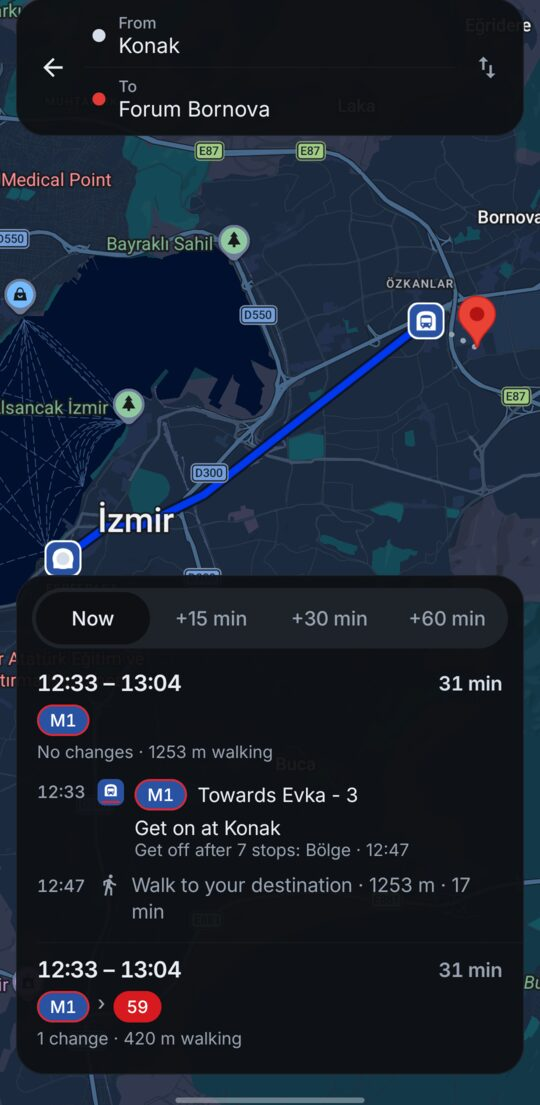
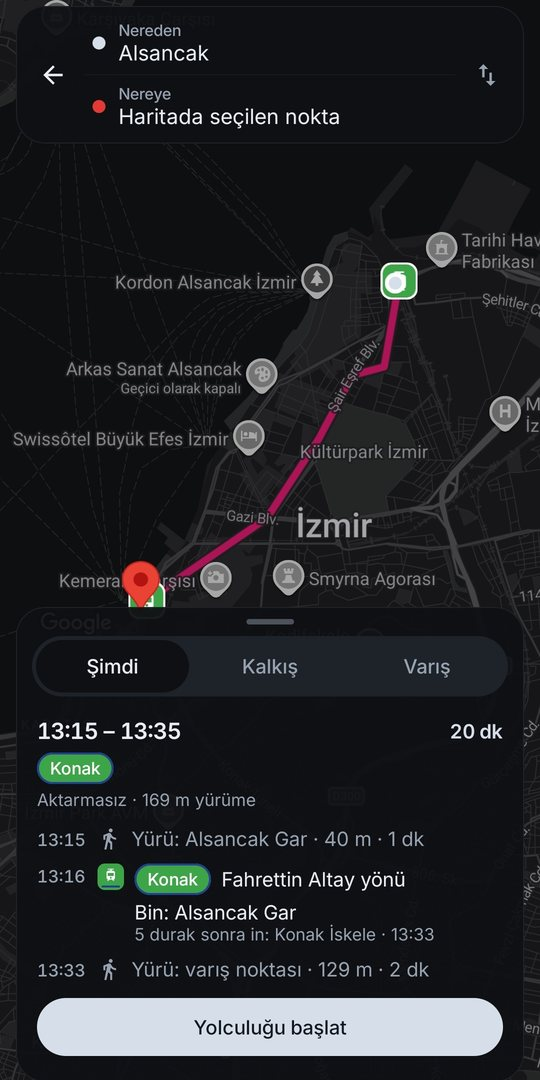
Website: new screenshots and updated features
Replaces the old screenshots with current ones (monochrome map, live
buses, trip planner, timetables, metro), updates the feature texts and
the share image, and adds a Google Play testing section that stays
hidden until the tester group exists.

diff --git a/docs/index.html b/docs/index.html
@@ -7,7 +7,7 @@
 <meta name="description" content="İzmir'in tüm toplu taşıması tek uygulamada: canlı ESHOT otobüsleri, Metro, tramvay, İZBAN ve vapur; sefer saatleri, aktarmalar ve yol tarifi.">
 <meta property="og:title" content="İzmir Transit">
 <meta property="og:description" content="Canlı otobüsler, metro, tramvay, İZBAN ve vapur — tek uygulamada, internet olmadan da.">
-<meta property="og:image" content="https://aijeculate.github.io/izmir-transit/screenshots/map.jpg">
+<meta property="og:image" content="https://aijeculate.github.io/izmir-transit/screenshots/og.jpg">
 <link rel="icon" href="icons/icon-light.svg" type="image/svg+xml" media="(prefers-color-scheme: light)">
 <link rel="icon" href="icons/icon-dark.svg" type="image/svg+xml" media="(prefers-color-scheme: dark)">
 <link rel="icon" href="icons/icon-light-512.png" type="image/png">
@@ -56,6 +56,7 @@
   }
 
   * { box-sizing: border-box; }
+  [hidden] { display: none !important; }
   html { -webkit-text-size-adjust: 100%; }
   body {
     margin: 0;
@@ -117,6 +118,18 @@
   .gallery img { width: 100%; border-radius: 24px; border: 1px solid var(--hairline); box-shadow: var(--shadow); }
   .gallery figcaption { font-size: 14px; color: var(--text-2); margin-top: 10px; text-align: center; }
 
+  .test { display: grid; grid-template-columns: 1.1fr 0.9fr; gap: 28px; align-items: start; background: var(--panel); border: 1px solid var(--hairline); border-radius: 28px; padding: 32px; box-shadow: var(--shadow); backdrop-filter: blur(14px); -webkit-backdrop-filter: blur(14px); }
+  .badge { display: inline-block; font-size: 13px; font-weight: 600; letter-spacing: 0.02em; padding: 5px 12px; border-radius: 999px; background: var(--glow-a); color: var(--accent); margin-bottom: 14px; }
+  .steps { list-style: none; margin: 0; padding: 0; display: grid; gap: 14px; counter-reset: step; }
+  .steps li { display: grid; grid-template-columns: 36px 1fr; gap: 14px; align-items: start; counter-increment: step; }
+  .steps li::before { content: counter(step); display: grid; place-items: center; width: 36px; height: 36px; border-radius: 50%; background: var(--accent); color: var(--on-accent); font-weight: 700; }
+  .steps strong { display: block; margin-bottom: 2px; }
+  .steps p { margin: 0 0 10px; color: var(--text-2); font-size: 15px; }
+  .steps .btn { min-height: 44px; padding: 10px 18px; font-size: 15px; }
+  .ask { margin: 0; padding: 0; list-style: none; display: grid; gap: 10px; }
+  .ask li { padding-left: 26px; position: relative; color: var(--text-2); font-size: 15px; }
+  .ask li::before { content: "✓"; position: absolute; left: 0; color: var(--accent); font-weight: 700; }
+
   table { width: 100%; border-collapse: collapse; font-size: 15px; }
   td { padding: 12px 0; border-top: 1px solid var(--hairline); vertical-align: top; }
   td:first-child { font-weight: 600; width: 34%; padding-right: 16px; }
@@ -132,6 +145,7 @@
     .phones { height: 460px; }
     .phone { width: 200px; }
     .grid { grid-template-columns: 1fr 1fr; }
+    .test { grid-template-columns: 1fr; padding: 24px; }
   }
   @media (max-width: 560px) {
     .grid { grid-template-columns: 1fr; }
@@ -182,8 +196,10 @@
             <svg width="20" height="20" viewBox="0 0 24 24" fill="currentColor" aria-hidden="true"><path d="M5 20h14v-2H5v2zM19 9h-4V3H9v6H5l7 7 7-7z"/></svg>
             <span class="tr">Android için indir</span><span class="en">Download for Android</span>
           </a>
-          <a class="btn ghost" href="https://github.com/aijeculate/izmir-transit">
-            <span class="tr">Kaynak kodu</span><span class="en">Source code</span>
+          <!-- Shown once the tester Google Group exists: remove "hidden" here and on section#test, and set GROUP_URL. -->
+          <a class="btn ghost" href="#test" hidden>
+            <svg width="20" height="20" viewBox="0 0 24 24" fill="currentColor" aria-hidden="true"><path d="M3.6 2.3 13.4 12l-9.8 9.7c-.4-.2-.6-.6-.6-1.1V3.4c0-.5.2-.9.6-1.1zm11.1 11 2.5 2.5-11.4 6.5 8.9-9zm3.8-3.4 2.7 1.5c.8.5.8 1.6 0 2.1l-2.7 1.5-2.8-2.8 2.8-2.3zM5.8 1.7l11.4 6.5-2.5 2.5-8.9-9z"/></svg>
+            <span class="tr">Google Play testine katıl</span><span class="en">Join the Google Play test</span>
           </a>
         </div>
         <p class="note">
@@ -196,8 +212,8 @@
         </p>
       </div>
       <div class="phones" aria-hidden="true">
-        <div class="phone a"><img src="screenshots/map.jpg" alt=""></div>
-        <div class="phone b"><img src="screenshots/stop.jpg" alt=""></div>
+        <div class="phone a"><img src="screenshots/live.jpg" alt=""></div>
+        <div class="phone b"><img src="screenshots/planner.jpg" alt=""></div>
       </div>
     </div>
 
@@ -214,7 +230,7 @@
         </div>
         <div class="card">
           <h3><span class="tr">Yol tarifi</span><span class="en">Trip planner</span></h3>
-          <p><span class="tr">Adresi ya da yeri yaz: hangi durağa yürüyeceğini, neye bineceğini ve nerede aktarma yapacağını gösterir. Hesaplama tamamen telefonda.</span><span class="en">Type an address or place: it shows which stop to walk to, what to take and where to change. Planned entirely on your phone.</span></p>
+          <p><span class="tr">Adresi ya da yeri yaz: hangi durağa yürüyeceğini, neye bineceğini ve nerede aktarma yapacağını gösterir. Yolculuğu başlat, ineceğin durak yaklaşınca haber versin.</span><span class="en">Type an address or place: it shows which stop to walk to, what to take and where to change. Start the trip and get told when your stop is coming up.</span></p>
         </div>
         <div class="card">
           <h3><span class="tr">Her durak, her istasyon</span><span class="en">Every stop and station</span></h3>
@@ -230,7 +246,7 @@
         </div>
         <div class="card">
           <h3><span class="tr">Sana göre</span><span class="en">Yours</span></h3>
-          <p><span class="tr">Türkçe ve İngilizce; açık, koyu ve AMOLED tema; sakin ya da sıvı cam görünüm; tam ekran harita.</span><span class="en">Turkish and English; light, dark and AMOLED themes; a calm or liquid-glass look; a fullscreen map.</span></p>
+          <p><span class="tr">Türkçe ve İngilizce; açık, koyu ve AMOLED tema; yerleri gösteren sade, tek renkli harita; ana ekran widget'ı.</span><span class="en">Turkish and English; light, dark and AMOLED themes; a calm monochrome map that still shows places; a home-screen widget.</span></p>
         </div>
       </div>
     </section>
@@ -238,11 +254,50 @@
     <section>
       <h2><span class="tr">Ekran görüntüleri</span><span class="en">Screenshots</span></h2>
       <div class="gallery">
-        <figure><img src="screenshots/map.jpg" alt="" loading="lazy"><figcaption><span class="tr">Tüm İzmir ağı</span><span class="en">The whole network</span></figcaption></figure>
-        <figure><img src="screenshots/stop.jpg" alt="" loading="lazy"><figcaption><span class="tr">İstasyon ve aktarmalar</span><span class="en">Station and interchanges</span></figcaption></figure>
+        <figure><img src="screenshots/home.jpg" alt="" loading="lazy"><figcaption><span class="tr">Favoriler ve canlı varışlar</span><span class="en">Favourites and live arrivals</span></figcaption></figure>
+        <figure><img src="screenshots/live.jpg" alt="" loading="lazy"><figcaption><span class="tr">Canlı otobüsler</span><span class="en">Live buses</span></figcaption></figure>
+        <figure><img src="screenshots/network.jpg" alt="" loading="lazy"><figcaption><span class="tr">Tüm İzmir ağı</span><span class="en">The whole network</span></figcaption></figure>
         <figure><img src="screenshots/planner.jpg" alt="" loading="lazy"><figcaption><span class="tr">Yol tarifi</span><span class="en">Trip planner</span></figcaption></figure>
-        <figure><img src="screenshots/timetable.jpg" alt="" loading="lazy"><figcaption><span class="tr">Sefer saatleri</span><span class="en">Timetable</span></figcaption></figure>
-        <figure><img src="screenshots/welcome.jpg" alt="" loading="lazy"><figcaption><span class="tr">İlk açılış</span><span class="en">First launch</span></figcaption></figure>
+        <figure><img src="screenshots/timetable.jpg" alt="" loading="lazy"><figcaption><span class="tr">Sefer saatleri</span><span class="en">Timetables</span></figcaption></figure>
+        <figure><img src="screenshots/metro.jpg" alt="" loading="lazy"><figcaption><span class="tr">Metro, tramvay, İZBAN, vapur</span><span class="en">Metro, tram, İZBAN, ferry</span></figcaption></figure>
+      </div>
+    </section>
+
+    <section id="test" hidden>
+      <div class="test">
+        <div>
+          <span class="badge"><span class="tr">Google Play · Kapalı test</span><span class="en">Google Play · Closed test</span></span>
+          <h2><span class="tr">Google Play testine katıl</span><span class="en">Join the Google Play test</span></h2>
+          <p class="sub">
+            <span class="tr">İzmir Transit'in Google Play'de herkese açılabilmesi için 14 gün boyunca test eden kullanıcılara ihtiyacı var. Katılırsan uygulamayı Play Store'dan yükler, güncellemeleri de otomatik alırsın.</span>
+            <span class="en">To be released to everyone on Google Play, İzmir Transit needs people to test it for 14 days. Join and you install it from the Play Store, with updates arriving automatically.</span>
+          </p>
+          <ol class="steps">
+            <li><div>
+              <strong><span class="tr">Test grubuna katıl</span><span class="en">Join the test group</span></strong>
+              <p><span class="tr">Telefonunda kullandığın Google hesabıyla gir ve “Gruba katıl”a dokun.</span><span class="en">Use the Google account on your phone and tap “Join group”.</span></p>
+              <a class="btn primary" href="GROUP_URL" rel="noopener"><span class="tr">Gruba katıl</span><span class="en">Join the group</span></a>
+            </div></li>
+            <li><div>
+              <strong><span class="tr">Test kullanıcısı ol</span><span class="en">Become a tester</span></strong>
+              <p><span class="tr">Gruba katıldıktan sonra bu sayfada “Test kullanıcısı ol”a dokun.</span><span class="en">After joining the group, tap “Become a tester” on this page.</span></p>
+              <a class="btn ghost" href="https://play.google.com/apps/testing/com.aijec.izmirtransit" rel="noopener"><span class="tr">Test kullanıcısı ol</span><span class="en">Become a tester</span></a>
+            </div></li>
+            <li><div>
+              <strong><span class="tr">Play Store'dan yükle</span><span class="en">Install from the Play Store</span></strong>
+              <p><span class="tr">Aynı sayfadaki “Google Play'den indir” bağlantısıyla yükle. Uygulamanın GitHub sürümü yüklüyse önce onu kaldır.</span><span class="en">Install it with the “Download it on Google Play” link on the same page. If you have the GitHub version installed, uninstall it first.</span></p>
+            </div></li>
+          </ol>
+        </div>
+        <div>
+          <h3 style="margin:0 0 12px;font-size:17px"><span class="tr">Tek ricam</span><span class="en">All I ask</span></h3>
+          <ul class="ask">
+            <li><span class="tr">14 gün boyunca gruptan ve testten çıkma.</span><span class="en">Stay in the group and the test for 14 days.</span></li>
+            <li><span class="tr">Uygulamayı silme, haftada birkaç kez aç; otobüsünü kontrol etmen yeterli.</span><span class="en">Keep the app installed and open it a few times a week; checking your bus is enough.</span></li>
+            <li><span class="tr">Bir hata ya da öneri olursa Play Store'daki uygulama sayfasından özel geri bildirim gönder.</span><span class="en">Found a bug or have an idea? Send private feedback from the app's Play Store page.</span></li>
+          </ul>
+          <p class="note"><span class="tr">Test sürümü tamamen ücretsizdir; hesap açman ya da bir şey ödemen gerekmez.</span><span class="en">The test version is completely free; no account or payment needed.</span></p>
+        </div>
       </div>
     </section>
 

diff --git a/README.md b/README.md
@@ -15,7 +15,7 @@
 
 | | | | |
 |---|---|---|---|
-| ![Map](docs/screenshots/map.jpg) | ![Station](docs/screenshots/stop.jpg) | ![Trip planner](docs/screenshots/planner.jpg) | ![Timetable](docs/screenshots/timetable.jpg) |
+| ![Live buses](docs/screenshots/live.jpg) | ![Home](docs/screenshots/home.jpg) | ![Trip planner](docs/screenshots/planner.jpg) | ![Timetable](docs/screenshots/timetable.jpg) |
 
 ## Features
 
